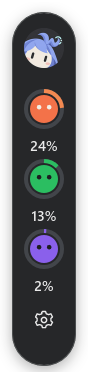
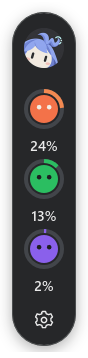
fix: remove excess padding below capsule settings

diff --git a/docs/UI_SPEC.md b/docs/UI_SPEC.md
@@ -6,7 +6,7 @@
 
 | 设计要求 | 程序实现 |
 | --- | --- |
-| 黑色窄胶囊、圆形角色、百分比、底部齿轮 | 默认 64px 主体、50px 进度环、28px 双眼角色、14px 数字、40px 设置触点；三档大小可选 |
+| 黑色窄胶囊、圆形角色、百分比、底部齿轮 | 默认 64px 主体、50px 进度环、28px 双眼角色、14px 数字、40 × 20px 设置触点；三档大小可选 |
 | 点击后在侧面展开，不覆盖胶囊 | 优先右侧，空间不足时左侧；保持屏幕工作区内；蓝色箭头指向面板 |
 | 快览：大百分比、进度条、三行信息、详情按钮 | 已用百分比与次数、今日用量、剩余额度、重置时间 |
 | 完整详情：时间筛选、柱状图、官网入口 | 今日／7天／30天／全部，24 根演示柱、网格和五个刻度；打开默认浏览器 |
@@ -21,7 +21,7 @@
 
 本轮按“除了悬浮面板都小一点”的反馈保留胶囊三档尺寸，详情恢复 1.0 倍排版，设置使用独立尺寸与更紧凑的行距。
 
-按最新外观反馈恢复胶囊外形，顶部使用用户提供的 `docs/logo.png`，原始图保留不变；`scripts/prepare-logo.py` 生成带平滑透明圆形边缘的 2x PNG，界面使用平滑采样，避免大图直接缩小造成锯齿。常驻模式可以从 Logo 区拖动。进度环与背景轨道使用相同路径坐标，紧凑／标准／宽松线宽为 3／4／5px，背景色 `#3B3E43`。Logo 与底部设置到服务区统一使用 12／16／20px 间隔；设置图标缩为 16／20／24px，保持原有点击区域。
+按最新外观反馈恢复胶囊外形，顶部使用用户提供的 `docs/logo.png`，原始图保留不变；`scripts/prepare-logo.py` 生成带平滑透明圆形边缘的 2x PNG，界面使用平滑采样，避免大图直接缩小造成锯齿。常驻模式可以从 Logo 区拖动。进度环与背景轨道使用相同路径坐标，紧凑／标准／宽松线宽为 3／4／5px，背景色 `#3B3E43`。Logo 与底部设置到服务区统一使用 12／16／20px 间隔；设置图标为 16／20／24px，按钮行高度与图标一致，去除缩小图标后残留的行内空白。上下端内边距均为 16px。
 
 悬浮窗主体使用纯色 `#1B1C1F`，彩色角色同样使用纯色；外框圆角为主体宽度的一半。
 
@@ -31,11 +31,11 @@
 
 | 组件 | 尺寸 |
 | --- | --- |
-| 胶囊主体 | 紧凑／标准／宽松宽度 48／64／80px；默认三项主体 64 × 354px |
-| 胶囊原生窗口 | 默认 88 × 378px；0／1／2／3 项对应 238／238／308／378px；紧凑三项 72 × 300px，宽松三项 104 × 444px |
+| 胶囊主体 | 紧凑／标准／宽松宽度 48／64／80px；默认三项主体 64 × 334px |
+| 胶囊原生窗口 | 默认 88 × 358px；0／1／2／3 项对应 218／218／288／358px；紧凑三项 72 × 284px，宽松三项 104 × 420px |
 | 服务项 | 标准 56 × 70px；圆环 50px；中心角色 28px；数字 14px |
 | 顶部 Logo | 紧凑／标准／宽松为 32／40／48px；与服务区间隔 12／16／20px |
-| 底部设置触点 | 紧凑／标准／宽松为 32／40／48px；图标 16／20／24px，与服务区间隔 12／16／20px |
+| 底部设置触点 | 紧凑／标准／宽松为 32 × 16／40 × 20／48 × 24px；图标 16／20／24px，与服务区间隔 12／16／20px；图标到底端留白 16px |
 | 快览原生窗口 | 296 × 422px；深色主体 272 × 398px；标题栏 64px |
 | 完整详情原生窗口 | 296 × 612px；深色主体 272 × 588px；标题栏 56px |
 | 设置原生窗口 | 460 × 600px；主体 436 × 576px；左导航 116px；标题栏 52px |

diff --git a/docs/WINDOWS_QA.md b/docs/WINDOWS_QA.md
@@ -2,7 +2,14 @@
 
 日期：2026-10-10 · 工程版本：v0.2.0 · 目标：Windows x64。
 
-## 当前轮：顶部品牌 Logo、胶囊外形与圆环背景
+## 当前轮：收紧设置入口下方留白
+
+- [x] 设置按钮行高度与 16／20／24px 图标一致，消除原先按钮行内的额外空白；图标到底端的内边距统一为 16px。
+- [x] Logo、服务项、图标尺寸及两端到服务区的间隔保持原样；标准窗口由 88×378px 收紧为 88×358px，紧凑 72×284px，宽松 104×420px。
+- [x] 9 项 Rust 测试、17 张原生外观快照和隔离控件输入检查通过，真实用户配置未改变；三档底部图标完整显示。
+- [x] Release 构建及隔离配置启动检查通过。
+
+## 前轮：顶部品牌 Logo、胶囊外形与圆环背景
 
 - [x] 保留用户提供的 docs/logo.png 原图，生成 2x 小尺寸 PNG 并平滑采样，避免高分辨率图直接缩小的锯齿；顶部 Logo 为 32／40／48px，常驻时支持从 Logo 区拖动。
 - [x] 恢复半圆端头胶囊，保留纯色主体；圆环线宽 3／4／5px，增加相同坐标的灰色背景轨道。
